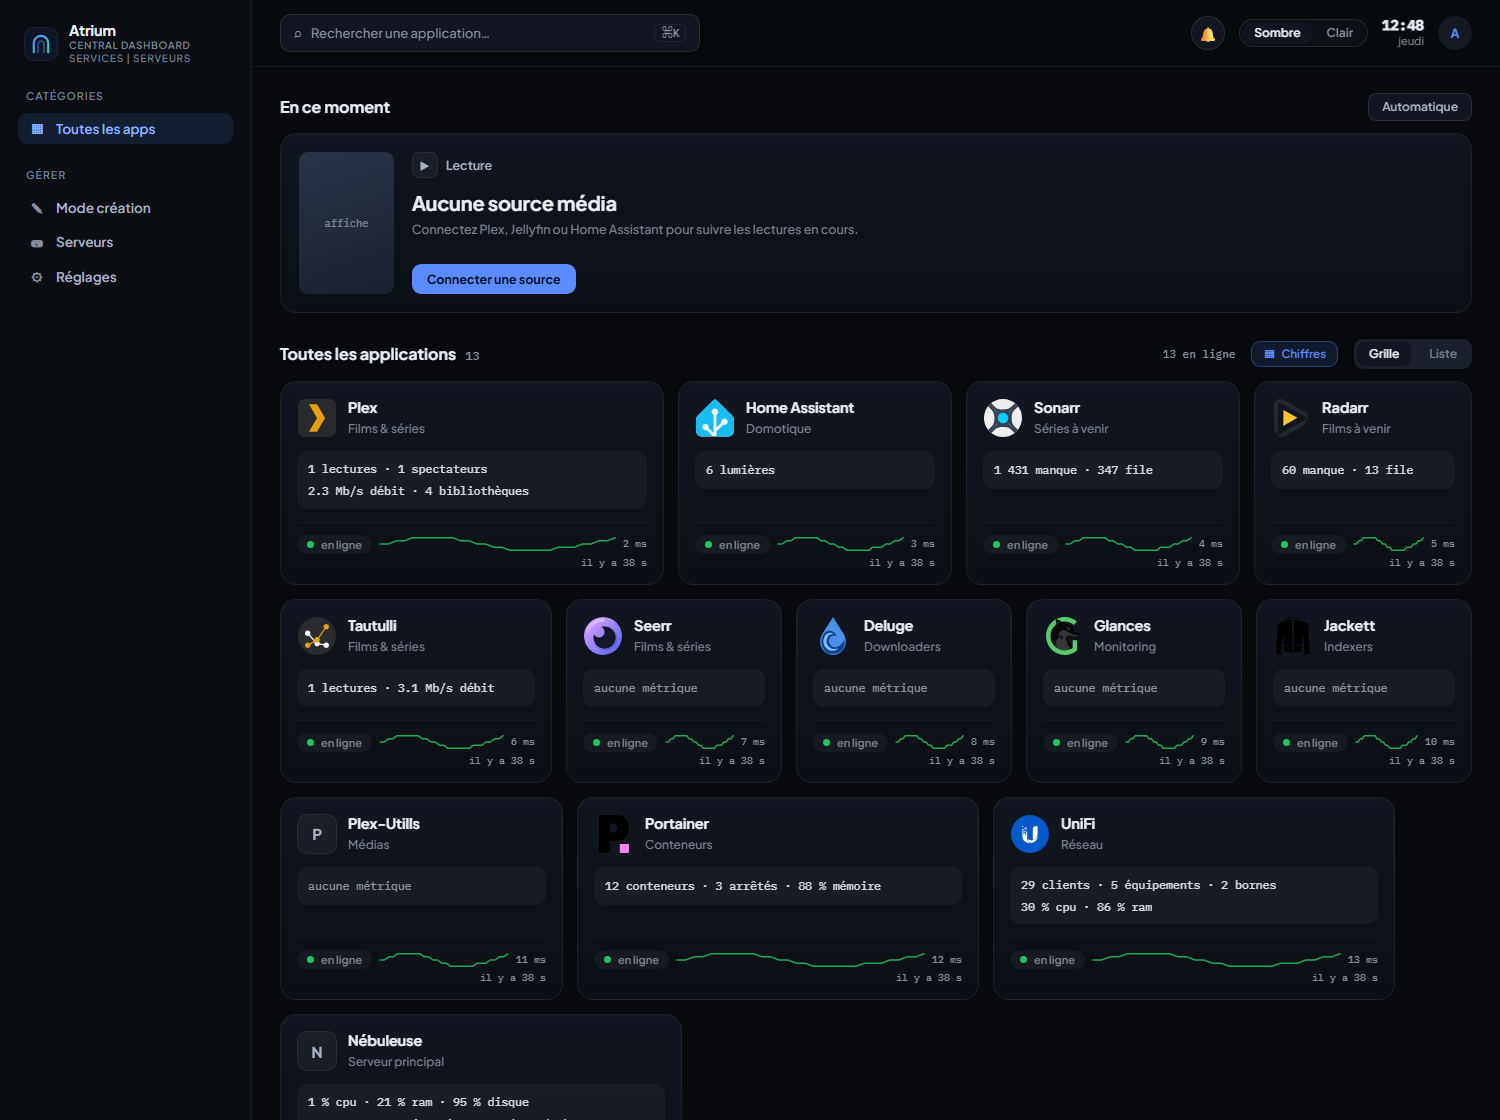
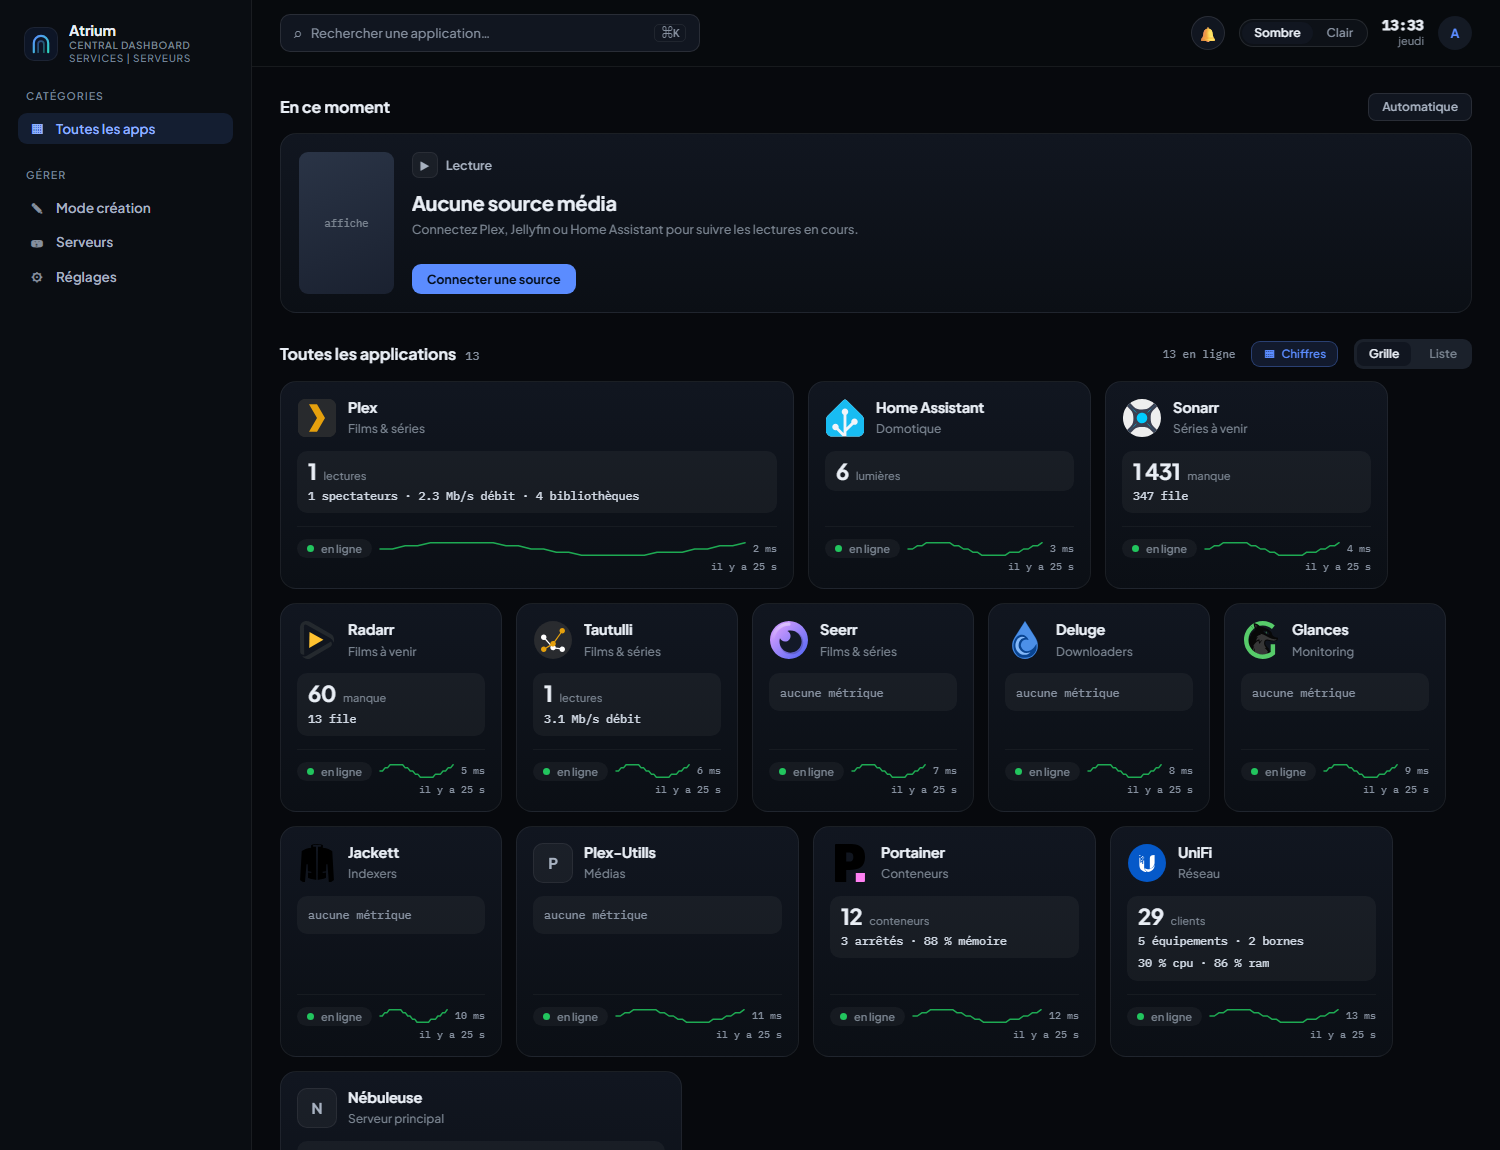
Une mesure de tête, choisie sans table par intégration
La plus parlante passe en grand chiffre, les autres restent en lignes dessous.
Le choix ne demande aucune table : celle qui pose problème s'il y en a une, la
première déclarée sinon. Le moteur d'alertes sait déjà nommer la métrique
fautive, et l'intégration met déjà en tête ce qu'elle a de plus parlant —
même ordre que celui qui range les lignes par famille.

Le critique passe avant l'avertissement, quel que soit l'ordre de déclaration :
un processeur en avertissement déclaré premier ne prend pas la place d'un
disque à 95 %.

La couleur est celle de l'alerte de cette mesure-là, pas celle du service. Un
disque critique ne doit pas rougir une température qui n'est qu'en
avertissement — c'est le défaut qu'avait ma première version, trouvé en
écrivant le cas à deux alertes.

La vue Liste garde sa ligne unique, sans vedette : sa rangée n'a qu'une cellule.

diff --git a/app/static/index.html b/app/static/index.html
@@ -514,6 +514,13 @@ a.card:hover{box-shadow:var(--sh-hover);border-color:var(--accent-border);transf
          font:500 11.5px/1.5 'IBM Plex Mono',monospace;color:var(--t2)}
 /* Plusieurs familles de mesures : une ligne chacune, dans la même boîte. */
 .app-mes.lignes{flex-direction:column;align-items:flex-start;gap:5px}
+/* La mesure de tête : le chiffre porte, le libellé accompagne. */
+.mes-v{display:flex;align-items:baseline;gap:7px;max-width:100%;min-width:0}
+.mes-v b{font:700 22px/1 'Plus Jakarta Sans',sans-serif;letter-spacing:-.02em;color:var(--t1)}
+.mes-v i{font:500 11px/1.2 'Plus Jakarta Sans',sans-serif;font-style:normal;color:var(--t5);
+         overflow:hidden;text-overflow:ellipsis;white-space:nowrap}
+.mes-v.warn b{color:var(--warn)}
+.mes-v.bad b{color:var(--bad)}
 .app-mes .mes-l{min-width:0;max-width:100%;overflow:hidden;text-overflow:ellipsis;white-space:nowrap}
 .app-mes.vide{color:var(--t6);gap:8px;justify-content:space-between}
 .mes-tx{min-width:0;overflow:hidden;text-overflow:ellipsis;white-space:nowrap}
@@ -5643,20 +5650,56 @@ function appCard(app, index) {
 
          En vue Liste, la rangée n'a qu'une cellule pour ça : tout tient sur une
          ligne, quitte à la couper au bout. */
+      /* La vedette : celle qui pose problème s'il y en a une, la première
+         déclarée sinon. Aucun classement à tenir par intégration — celle-ci
+         met déjà en tête ce qu'elle a de plus parlant, et son ordre est le
+         même qui range les lignes par famille juste en dessous. */
+      const ennuis = view === 'list' ? [] : alertesDe(app.nom);
+      const enCause = (niv) => ennuis.filter((x) => (x.niveau === 'critique') === niv)
+        .map((x) => x.param && x.param.metrique).filter(Boolean);
+      const graves = enCause(true);
+      const legeres = enCause(false);
+      /* Le critique passe avant l'avertissement : c'est lui qu'on veut voir en
+         premier, quel que soit l'ordre de déclaration. */
+      const vedette = view === 'list' ? null
+        : (chiffres.find((x) => graves.includes(x.id))
+           || chiffres.find((x) => legeres.includes(x.id))
+           || chiffres[0]);
+      const suite = vedette ? chiffres.filter((x) => x !== vedette) : chiffres;
+
+      if (vedette) {
+        const v = document.createElement('span');
+        /* La couleur est celle de l'alerte de cette mesure-là, pas celle du
+           service : un disque critique ne doit pas rougir une température qui
+           n'est qu'en avertissement. */
+        v.className = 'mes-v' + (graves.includes(vedette.id) ? ' bad'
+          : legeres.includes(vedette.id) ? ' warn' : '');
+        const gros = document.createElement('b');
+        gros.textContent = vedette.val;
+        const lab = document.createElement('i');
+        lab.textContent = vedette.lab.toLowerCase();
+        v.appendChild(gros);
+        v.appendChild(lab);
+        zone.appendChild(v);
+        /* Le grand chiffre n'est pas en chasse fixe : il pèse plus large que
+           les lignes qui le suivent, et la tuile doit en tenir compte. */
+        texte = ''.padEnd(Math.ceil(vedette.val.length * 2.9) + vedette.lab.length + 2, 'x');
+      }
+
       /* Les lignes s'équilibrent : quatre mesures font deux et deux, pas trois
          et une — une mesure seule sous une ligne pleine se lit comme un reste. */
-      const nb = view === 'list' ? 1 : Math.ceil(chiffres.length / 3);
-      const base = Math.floor(chiffres.length / nb);
-      let rab = chiffres.length % nb;
+      const nb = view === 'list' ? 1 : Math.max(1, Math.ceil(suite.length / 3));
+      const base = Math.floor(suite.length / nb);
+      let rab = suite.length % nb;
       const lignes = [];
-      let reste = chiffres.slice();
+      let reste = suite.slice();
       while (reste.length) {
         const n = base + (rab > 0 ? 1 : 0);
         rab -= 1;
         lignes.push(reste.slice(0, n));
         reste = reste.slice(n);
       }
-      zone.classList.toggle('lignes', lignes.length > 1);
+      zone.classList.toggle('lignes', !!vedette || lignes.length > 1);
       lignes.forEach((g) => {
         const l = document.createElement('span');
         l.className = 'mes-l';
